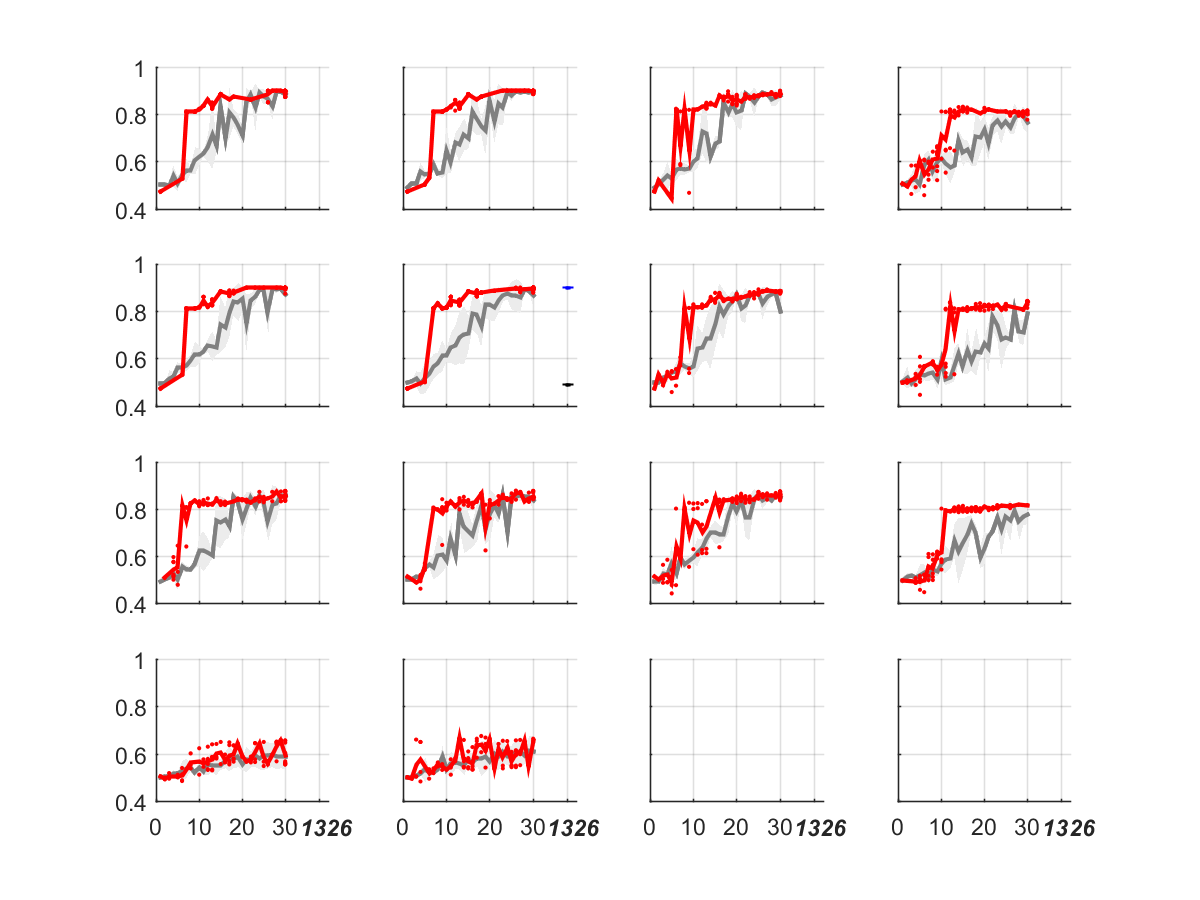
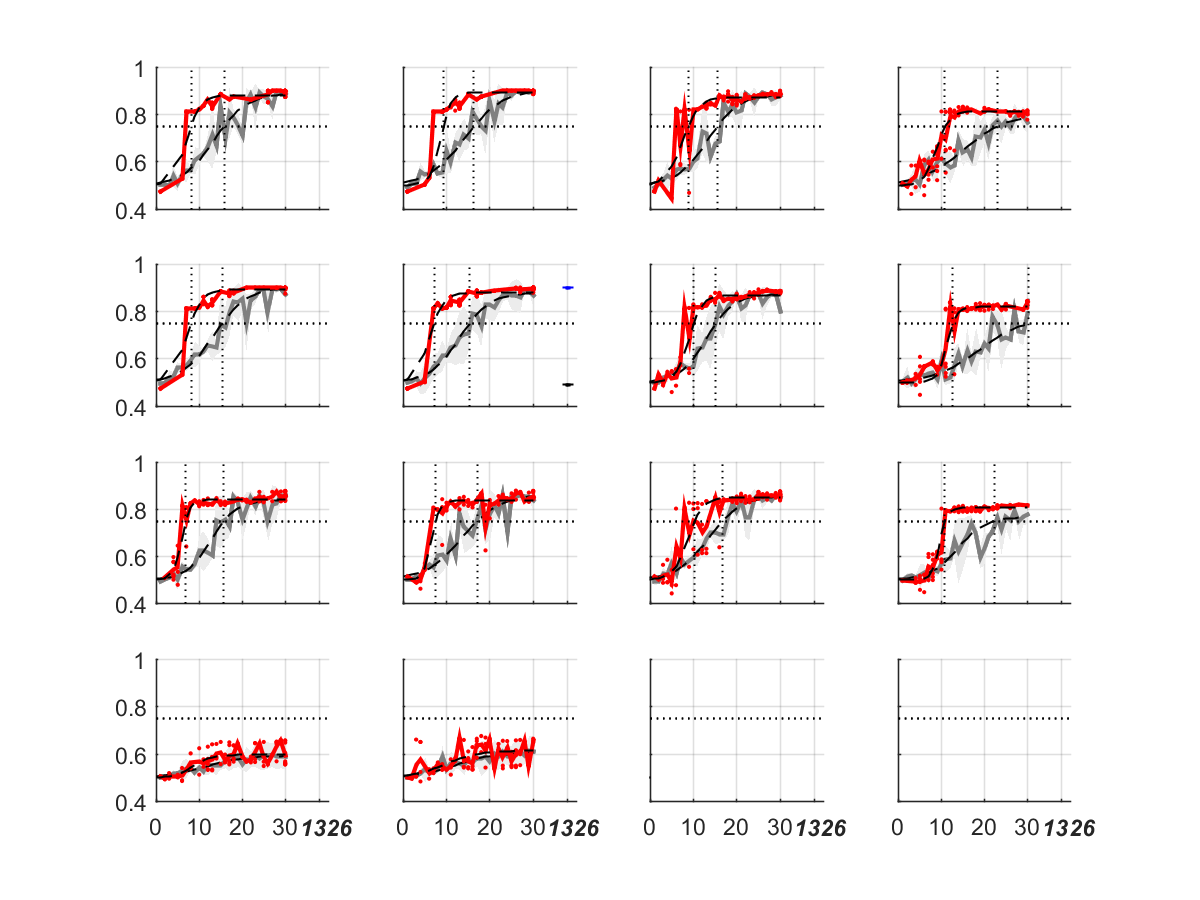
figure naming update

diff --git a/scripts/run_Figure2A.m b/scripts/run_Figure2A.m
@@ -30,7 +30,7 @@ w = warning ('off','all');
 parameterSetName = 'R1R4_Iter3_delay5_eNet09';
 
 overflow_loc = 'D:\Mijn_documenten\Dropbox\A. PhD\C. Papers\ch_Wingsensors\Mohren_WingSparseSensors_githubOverflow';
-github_loc = 'data';
+github_loc = 'accuracyData';
     
 try
     load([github_loc filesep 'parameterSet_' parameterSetName ])
@@ -59,6 +59,7 @@ varParCombinationsR2A_allFilt = varParCombinationsAll(figMatch);
 
 %% Figure settings
 
+plot_on = true ;
 errLocFig2A = 38;
 axisOptsFig2A = {'xtick',[0:10:30,errLocFig2A ],'xticklabel',{'0','10','20','30','\bf \it 1326'},...
     'ytick',0.4:0.2:1 ,'xlim', [0,errLocFig2A+2],'ylim',[0.4,1] };
@@ -81,7 +82,7 @@ for j = 1:n_y
         [ meanVec,stdVec, iters] = getMeanSTD( Dat_I,dataStruct );
         realNumbers = find(~isnan(meanVec));
         a = shadedErrorBar(realNumbers, meanVec(realNumbers),stdVec(realNumbers),col{1});
-        thresholdMat(j,k,1) = sigmFitParam(realNumbers,meanVec(realNumbers));
+        thresholdMat(j,k,1) = sigmFitParam(realNumbers,meanVec(realNumbers),'plot_show',plot_on);
         %---------------------------------SSPOCon-------------------------
         Dat_I = ind_SSPOCon(sub_nr);
         [ meanVec,stdVec, iters] = getMeanSTD( Dat_I,dataStruct );
@@ -91,7 +92,7 @@ for j = 1:n_y
             scatter( ones(iters,1)*k2,nonzeros(dataStruct.dataMatTot(Dat_I,k2,:)) , dotcol{2})
         end
         plot(realNumbers, meanVec(realNumbers),col{2})
-        thresholdMat(j,k,2) = sigmFitParam(realNumbers,meanVec(realNumbers));
+        thresholdMat(j,k,2) = sigmFitParam(realNumbers,meanVec(realNumbers),'plot_show',plot_on);
         %--------------------------------Allsensors Neural filt-------------------------    
         meanval = mean( nonzeros(  dataStructAllFilt.dataMatTot(sub_nr,:)  ) );
         stdval = std( nonzeros(    dataStructAllFilt.dataMatTot(sub_nr,:)  ) );

diff --git a/scripts/run_Figure3.m b/scripts/run_Figure3.m
@@ -20,8 +20,8 @@ parameterSetName    = 'R3R4withExpFilterIter5';
 % parameterSetName    = 'R1R4Iter10_delay3_6_fixSTAwidth';
 
 overflow_loc = 'D:\Mijn_documenten\Dropbox\A. PhD\C. Papers\ch_Wingsensors\Mohren_WingSparseSensors_githubOverflow';
-github_loc = 'data';
-    
+github_loc = 'accuracyData';
+
 try
     load([github_loc filesep 'parameterSet_' parameterSetName ])
     fixPar.data_loc = github_loc;

diff --git a/scripts/run_FiguresSupplement.m b/scripts/run_FiguresSupplement.m
@@ -50,7 +50,7 @@ parameterSetName = 'subPartPaperR1Iter3_delay4_singValMult0_eNet095';
 % parameterSetName = 'R1R2Iter5_delay5_singValsMult1_eNet085'
 
 overflow_loc = 'D:\Mijn_documenten\Dropbox\A. PhD\C. Papers\ch_Wingsensors\Mohren_WingSparseSensors_githubOverflow';
-github_loc = 'data';
+github_loc = 'accuracyData';
     
 if 0
     load([github_locloc filesep 'parameterSet_' parameterSetName ])

diff --git a/scripts/run_Figure4.m b/scripts/run_Figure4.m
@@ -19,7 +19,7 @@ parameterSetName    = 'R3R4withExpFilterIter5';
 % parameterSetName    = 'R1toR4Iter10_delay4';
 
 overflow_loc = 'D:\Mijn_documenten\Dropbox\A. PhD\C. Papers\ch_Wingsensors\Mohren_WingSparseSensors_githubOverflow';
-github_loc = 'data';
+ggithub_loc = 'accuracyData';
     
 try
     load([github_loc filesep 'parameterSet_' parameterSetName ])

diff --git a/scripts/run_Figure1.m b/scripts/run_Figure1.m
@@ -18,7 +18,7 @@ w = warning ('off','all');
 parameterSetName = 'R1R4_Iter3_delay5_eNet09';
 
 overflow_loc = 'D:\Mijn_documenten\Dropbox\A. PhD\C. Papers\ch_Wingsensors\Mohren_WingSparseSensors_githubOverflow';
-github_loc = 'data';
+github_loc = 'accuracyData';
     
 try
     load([github_loc filesep 'parameterSet_' parameterSetName ])

diff --git a/scripts/run_Figure2BC.m b/scripts/run_Figure2BC.m
@@ -23,7 +23,7 @@ parameterSetName    = 'R1toR4Iter10_delay4';
 
 
 overflow_loc = 'D:\Mijn_documenten\Dropbox\A. PhD\C. Papers\ch_Wingsensors\Mohren_WingSparseSensors_githubOverflow';
-github_loc = 'data';
+github_loc = 'accuracyData';
     
 try
     load([github_loc filesep 'parameterSet_' parameterSetName ])
